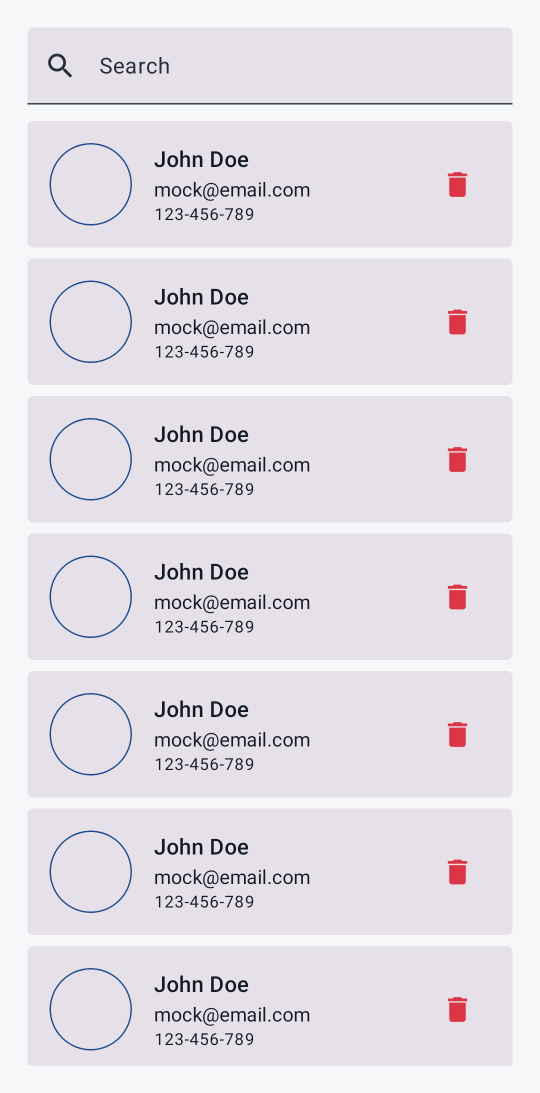
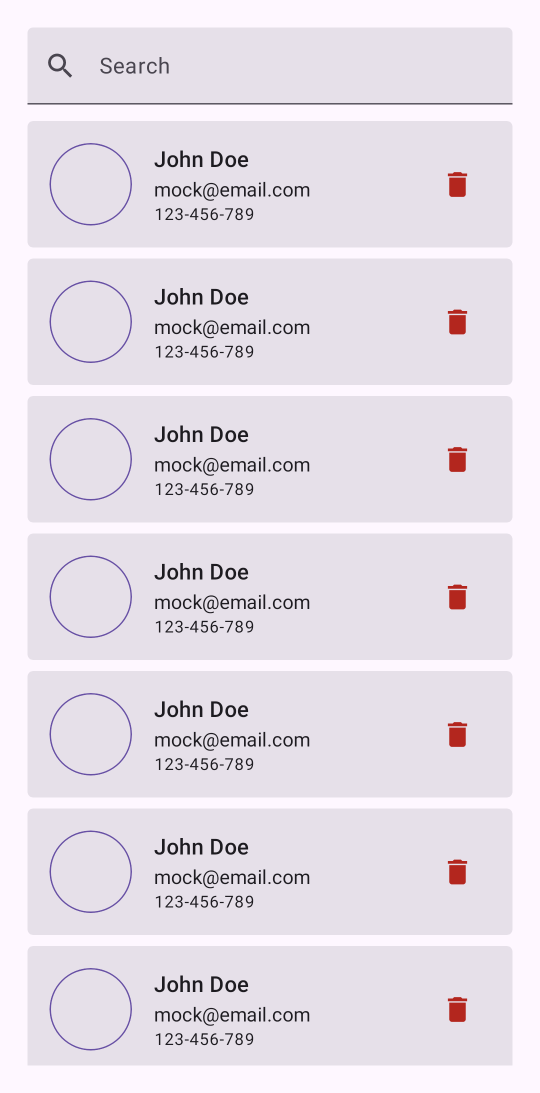
Added detail screenshot test

diff --git a/presentation/users/src/test/kotlin/com/random/users/users/screenshot/UserDetailScreenTest.kt b/presentation/users/src/test/kotlin/com/random/users/users/screenshot/UserDetailScreenTest.kt
@@ -1,0 +1,70 @@
+
+package com.random.users.users.screenshot
+
+import androidx.arch.core.executor.testing.InstantTaskExecutorRule
+import androidx.compose.ui.test.onRoot
+import androidx.navigation.compose.rememberNavController
+import androidx.test.ext.junit.runners.AndroidJUnit4
+import com.github.takahirom.roborazzi.RobolectricDeviceQualifiers
+import com.github.takahirom.roborazzi.RoborazziRule
+import com.github.takahirom.roborazzi.captureRoboImage
+import com.random.users.test.rules.createRoborazziRule
+import com.random.users.test.rules.createScreenshotTestComposeRule
+import com.random.users.users.mapper.toUiModel
+import com.random.users.users.mother.UserMother
+import com.random.users.users.screen.UserDetailScreen
+import kotlinx.coroutines.Dispatchers
+import kotlinx.coroutines.ExperimentalCoroutinesApi
+import kotlinx.coroutines.test.StandardTestDispatcher
+import kotlinx.coroutines.test.advanceUntilIdle
+import kotlinx.coroutines.test.resetMain
+import kotlinx.coroutines.test.runTest
+import kotlinx.coroutines.test.setMain
+import org.junit.After
+import org.junit.Before
+import org.junit.Rule
+import org.junit.runner.RunWith
+import org.robolectric.annotation.Config
+import org.robolectric.annotation.GraphicsMode
+import kotlin.test.Test
+
+@ExperimentalCoroutinesApi
+@RunWith(AndroidJUnit4::class)
+@GraphicsMode(GraphicsMode.Mode.NATIVE)
+@Config(qualifiers = RobolectricDeviceQualifiers.Pixel4a)
+internal class UserDetailScreenTest {
+    @get:Rule
+    val composeTestRule = createScreenshotTestComposeRule()
+
+    @get:Rule
+    val roborazziRule =
+        createRoborazziRule(composeTestRule = composeTestRule, captureType = RoborazziRule.CaptureType.None)
+
+    @get:Rule
+    val instantRule = InstantTaskExecutorRule()
+
+    @Before
+    fun setup() {
+        Dispatchers.setMain(StandardTestDispatcher())
+    }
+
+    @After
+    fun tearDown() {
+        Dispatchers.resetMain()
+    }
+
+    @Test
+    fun `GIVEN user model WHEN load screen THEN correct user info shown`() =
+        runTest {
+            composeTestRule.setContent {
+                UserDetailScreen(
+                    user = UserMother.createModel().toUiModel(),
+                    navController = rememberNavController(),
+                )
+            }
+
+            advanceUntilIdle()
+
+            composeTestRule.onRoot().captureRoboImage()
+        }
+}

diff --git a/presentation/users/src/main/kotlin/com/random/users/users/navigation/UsersNavigationImpl.kt b/presentation/users/src/main/kotlin/com/random/users/users/navigation/UsersNavigationImpl.kt
@@ -12,6 +12,7 @@ import androidx.navigation.navigation
 import androidx.navigation.toRoute
 import com.random.user.presentation.navigation.BaseNavRoutes
 import com.random.user.presentation.navigation.FeatureNavigation
+import com.random.user.presentation.ui.theme.RandomUsersTheme
 import com.random.users.users.model.UserUiModel
 import com.random.users.users.screen.UserDetailScreen
 import com.random.users.users.screen.UsersScreen
@@ -30,7 +31,9 @@ class UsersNavigationImpl
                 startDestination = UsersRoute.Home,
             ) {
                 composable<UsersRoute.Home> {
-                    UsersScreen(navController = navController)
+                    RandomUsersTheme {
+                        UsersScreen(navController = navController)
+                    }
                 }
                 composable<UsersRoute.UserDetail>(
                     typeMap = mapOf(typeOf<UserUiModel>() to UserParamType),

diff --git a/presentation/users/src/test/kotlin/com/random/users/users/screenshot/UsersScreenTest.kt b/presentation/users/src/test/kotlin/com/random/users/users/screenshot/UsersScreenTest.kt
@@ -13,7 +13,6 @@ import arrow.core.right
 import com.github.takahirom.roborazzi.RobolectricDeviceQualifiers
 import com.github.takahirom.roborazzi.RoborazziRule
 import com.github.takahirom.roborazzi.captureRoboImage
-import com.random.user.presentation.ui.theme.RandomUsersTheme
 import com.random.users.domain.models.UserName
 import com.random.users.domain.usecase.DeleteUserUseCase
 import com.random.users.domain.usecase.GetUserListUseCase
@@ -192,9 +191,7 @@ internal class UsersScreenTest {
 
     private fun renderScreen() {
         composeTestRule.setContent {
-            RandomUsersTheme {
-                UsersScreen(viewModel)
-            }
+            UsersScreen(viewModel)
         }
     }
 }

diff --git a/app/src/main/kotlin/com/random/user/navigation/RandomUsersNavHost.kt b/app/src/main/kotlin/com/random/user/navigation/RandomUsersNavHost.kt
@@ -8,6 +8,7 @@ import androidx.navigation.compose.NavHost
 import androidx.navigation.navigation
 import com.random.user.navigation.viewmodel.NavigationViewModel
 import com.random.user.presentation.navigation.BaseNavRoutes
+import com.random.user.presentation.ui.theme.RandomUsersTheme
 
 @Composable
 fun BaseProjectApplicationNavHost(

diff --git a/presentation/users/src/main/kotlin/com/random/users/users/mapper/UserUiMapper.kt b/presentation/users/src/main/kotlin/com/random/users/users/mapper/UserUiMapper.kt
@@ -19,7 +19,7 @@ internal fun List<User>.toUiState(): List<UserUiState> =
         )
     }
 
-private fun User.toUiModel() =
+internal fun User.toUiModel() =
     UserUiModel(
         uuid = uuid,
         name = name.toUiModel(),
